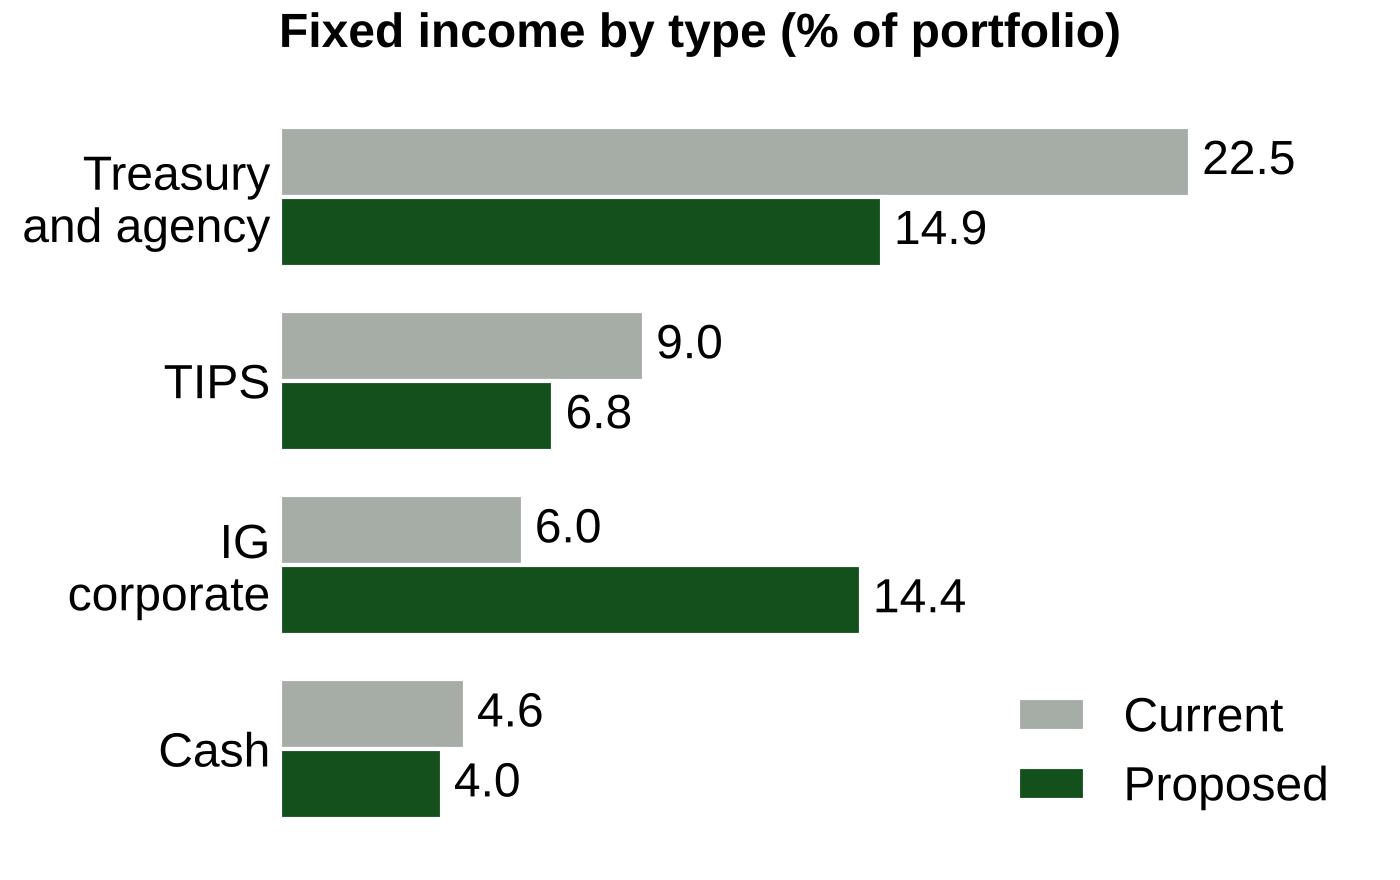
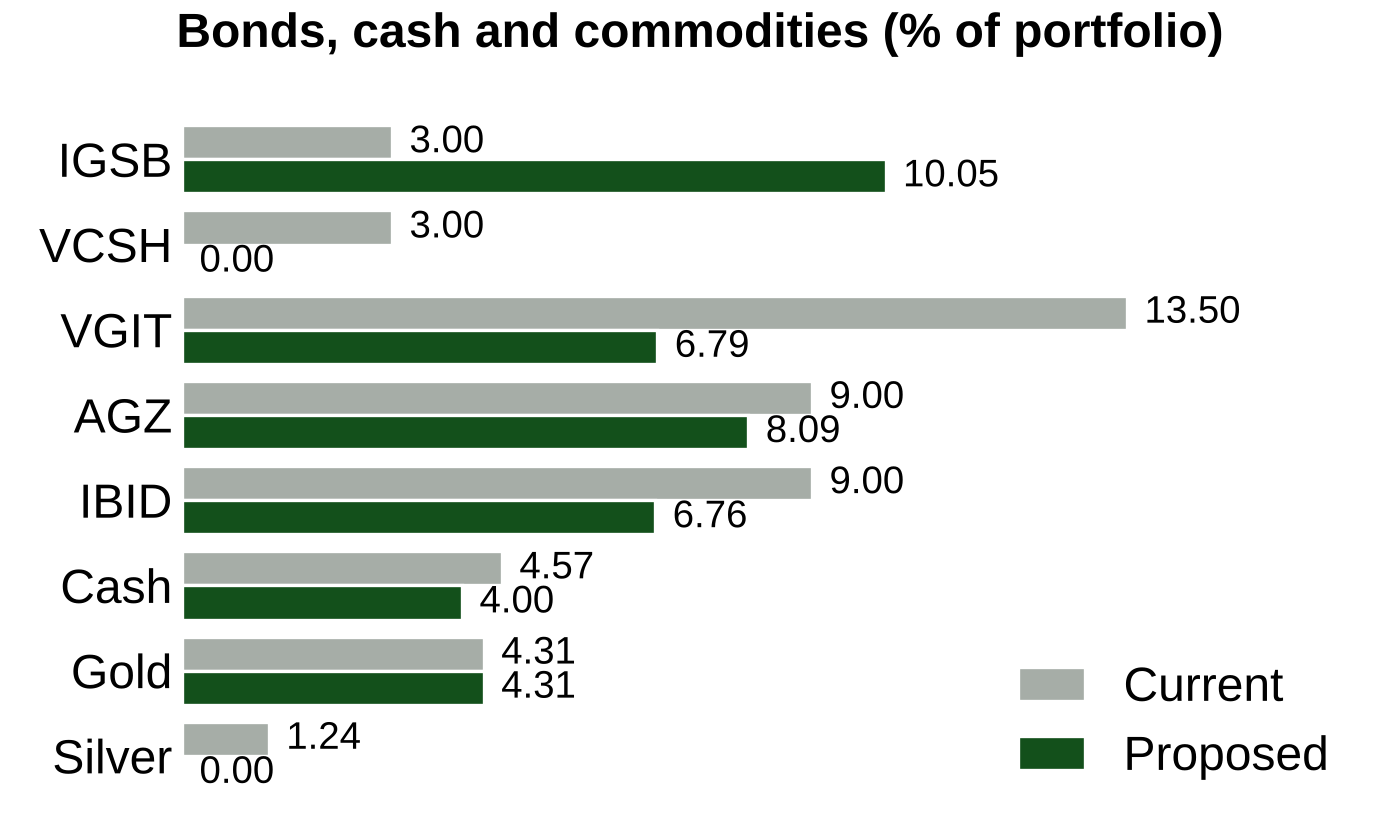
Deck: gold held from IGSB, silver sold; fixed-income holdings and rate-sensitivity charts
Claude-Session: https://claude.ai/code/session_01XvrXAsh1HuWmDaJG6Ek6Ku

diff --git a/src/deck_visuals.py b/src/deck_visuals.py
@@ -511,24 +511,49 @@ def scenario_returns(w=700, h=708):
     return P
 
 
-def fixed_income_mix(w=700, h=440):
+def fixed_income_mix(w=700, h=420):
     from src.team_weights import TEAM
-    T = pd.DataFrame({k: TEAM.loc[v].sum() for k, v in FI_TYPES.items()}).T[["old", "new"]]
+    rows = ["IGSB", "VCSH", "VGIT", "AGZ", "IBID", "Cash", "Gold", "Silver"]
+    T = TEAM.loc[rows, ["old", "new"]]
     fig, ax = figure(w, h)
-    y = np.arange(len(T))[::-1]; hh = 0.38
-    ax.barh(y + hh / 2, T["old"], height=hh, color=GREY, edgecolor=BG, lw=1.5, label="Current")
-    ax.barh(y - hh / 2, T["new"], height=hh, color=GREEN, edgecolor=BG, lw=1.5, label="Proposed")
+    y = np.arange(len(T))[::-1]; hh = 0.4
+    ax.barh(y + hh / 2, T["old"], height=hh, color=GREY, edgecolor=BG, lw=1.2, label="Current")
+    ax.barh(y - hh / 2, T["new"], height=hh, color=GREEN, edgecolor=BG, lw=1.2, label="Proposed")
     for yy, c in ((y + hh / 2, "old"), (y - hh / 2, "new")):
         for yi, v in zip(yy, T[c]):
-            ax.text(v + 0.3, yi, f"{v:.1f}", va="center", fontsize=FS)
-    ax.set_yticks(y, ["Treasury\nand agency", "TIPS", "IG\ncorporate", "Cash"])
-    ax.set_xlim(0, 27); ax.set_xticks([])
+            ax.text(v + 0.25, yi, f"{v:.2f}", va="center", fontsize=FS * 0.8)
+    ax.set_yticks(y, rows)
+    ax.set_xlim(0, 17); ax.set_xticks([])
     ax.spines["bottom"].set_visible(False); bars_frame(ax)
     ax.legend(loc="lower right")
-    title(fig, "Fixed income by type (% of portfolio)")
-    fig.subplots_adjust(left=0.2, right=0.98, bottom=0.03)
+    title(fig, "Bonds, cash and commodities (% of portfolio)")
+    fig.subplots_adjust(left=0.13, right=0.98, bottom=0.02)
     save(fig, "deck_fixed_income_mix.png")
     return T
+
+
+def rate_sensitivity(w=700, h=440):
+    from src.team_weights import TEAM, DURATION
+    rows = list(DURATION)
+    L = pd.DataFrame({c: -TEAM.loc[rows, c] * pd.Series(DURATION) / 100 for c in ("old", "new")})
+    L.loc["Total"] = L.sum()
+    L = L.drop(index="Cash")
+    fig, ax = figure(w, h)
+    y = np.arange(len(L))[::-1]; hh = 0.4
+    ax.barh(y + hh / 2, L["old"], height=hh, color=GREY, edgecolor=BG, lw=1.2, label="Current")
+    ax.barh(y - hh / 2, L["new"], height=hh, color=GREEN, edgecolor=BG, lw=1.2, label="Proposed")
+    for yy, c in ((y + hh / 2, "old"), (y - hh / 2, "new")):
+        for yi, v in zip(yy, L[c]):
+            ax.text(v - 0.02, yi, f"{v:.2f}".replace("-", "−") if abs(v) >= 0.005 else "0.00", va="center", ha="right", fontsize=FS * 0.8,
+                    **(BOLD if yi < 0.5 else {}))
+    ax.set_yticks(y, list(L.index)); ax.axvline(0, color=INK, lw=1.2)
+    ax.set_xlim(-1.45, 0.05); ax.set_xticks([])
+    ax.spines["bottom"].set_visible(False); bars_frame(ax)
+    ax.legend(loc="upper left")
+    title(fig, "Loss for a +100bp rise in yields (% of portfolio)")
+    fig.subplots_adjust(left=0.13, right=0.98, bottom=0.02)
+    save(fig, "deck_rate_sensitivity.png")
+    return L
 
 
 def trigger_readings(w=700, h=708):
@@ -568,7 +593,7 @@ def main():
     ff, t2, gap = fed_expected(); last, s1, s2 = curve(); ry = real_yields()
     w = wti(); prem, med = pe_premium(); s, oct_ = def_minus_grw()
     decomposition(); valuation_revisions(); glut, marks = oil_collapse_loss()
-    rows = risk_metrics(); scenario_returns(); trigger_readings(); fixed_income_mix()
+    rows = risk_metrics(); scenario_returns(); trigger_readings(); fixed_income_mix(); rate_sensitivity()
     print("\nNumbers drawn (check against the deck):")
     print("  Performance Jun–Oct (%): " + ", ".join(f"{k} {v:+.2f}" for k, v in C.iloc[-1].items()))
     print("  Active return by group vs sector benchmark (pp): " + ", ".join(f"{k} {v:+.2f}" for k, v in groups.items()))

diff --git a/src/team_weights.py b/src/team_weights.py
@@ -35,11 +35,15 @@ CASH = "CASH"
 TEAM = pd.DataFrame({
     "old": {"VGT": 16.47, "XLV": 6.59, "XLC": 4.48, "XLF": 6.12, "XLP": 6.08, "XLY": 3.70, "XLB": 3.70, "XLI": 3.24,
             "XLE": 4.99, "SCHH": 1.14, "XLU": 1.42, "IGSB": 3.00, "IBID": 9.00, "AGZ": 9.00, "VGIT": 13.50,
-            "Cash": 4.57, "VCSH": 3.00},
+            "Cash": 4.57, "VCSH": 3.00, "Gold": 4.31, "Silver": 1.24},
     "new": {"VGT": 19.50, "XLV": 7.00, "XLC": 5.50, "XLF": 6.00, "XLP": 4.00, "XLY": 5.00, "XLB": 2.00, "XLI": 4.00,
-            "XLE": 3.00, "SCHH": 2.50, "XLU": 1.50, "IGSB": 14.36, "IBID": 6.76, "AGZ": 8.09, "VGIT": 6.79,
-            "Cash": 4.00, "VCSH": 0.00}})
+            "XLE": 3.00, "SCHH": 2.50, "XLU": 1.50, "IGSB": 10.05, "IBID": 6.76, "AGZ": 8.09, "VGIT": 6.79,
+            "Cash": 4.00, "VCSH": 0.00, "Gold": 4.31, "Silver": 0.00}})
+# 6 Nov: gold (4.31%, held) is funded from IGSB (14.36 -> 10.05); silver (1.24%) is sold. Gold and silver are not in
+# the team's current table, which sums to 100% without them, so they are shown on a separate line.
 FI = ["IGSB", "IBID", "AGZ", "VGIT", "VCSH", "Cash"]
+COMMODITIES = ["Gold", "Silver"]
+DURATION = {"IGSB": 2.6, "VCSH": 2.6, "VGIT": 4.8, "AGZ": 3.42, "IBID": 0.54, "Cash": 0.0}   # IGSB, VCSH estimated
 
 # S&P 500 sector weights, 4 Nov 2026 close (ChartRow, SPY holdings), by ETF proxy
 SP500_RAW = {"VGT": 36.9, "XLF": 12.6, "XLV": 10.3, "XLY": 9.7, "XLC": 8.5, "XLI": 8.2, "XLP": 4.9, "XLE": 3.6,
